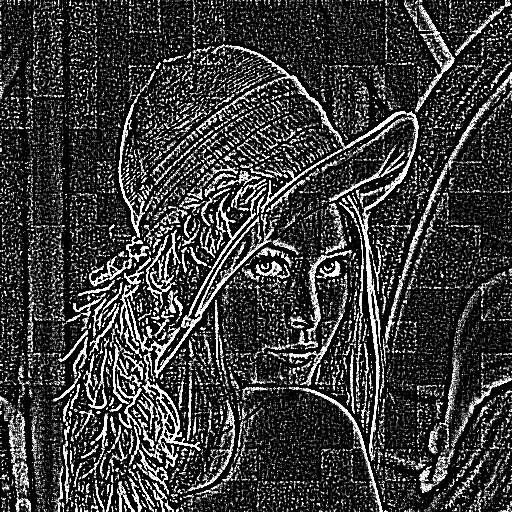
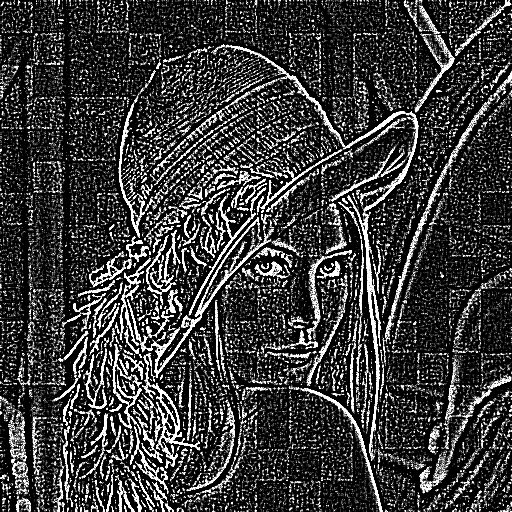
Dodano funkcje check_watermark_detected, która odejmuje wykryty znak od zapisanego. Białe kwadraty oznaczają miejsce, w którym się nie pokrywają. Jeżeli obraz nie ma białych kafelków, oznacza to, że znak został wykryty prawidłowo.

diff --git a/python/1/script.py b/python/1/script.py
@@ -112,10 +112,14 @@ class WatermarkImage:
                     np.sum(self.demmod_img[(i - 1) * self.K + 1:i * self.K + 1, (j - 1) * self.K + 1:j * self.K + 1]))
 
 
+    def check_watermark_detected(self):
+	self.check_watermark_detected = self.watermark_detected - self.watermark_visible
+
     def read_watermark(self):
         self.set_dst()
         self.set_demmod_img()
-        self.set_watermark_detected()  
+        self.set_watermark_detected()
+	self.check_watermark_detected() 
 
     def write_all_images_to_files(self):
 	cv2.imwrite('message_matrix.jpeg', self.message_matrix)
@@ -127,6 +131,7 @@ class WatermarkImage:
 	cv2.imwrite('dst.jpeg', self.dst)
 	cv2.imwrite('demmod_img.jpeg', self.demmod_img)
 	cv2.imwrite('watermark_detected.jpeg', self.watermark_detected)
+	cv2.imwrite('check_watermark_detected.jpeg', self.check_watermark_detected)
 
 
 #####################################################################
